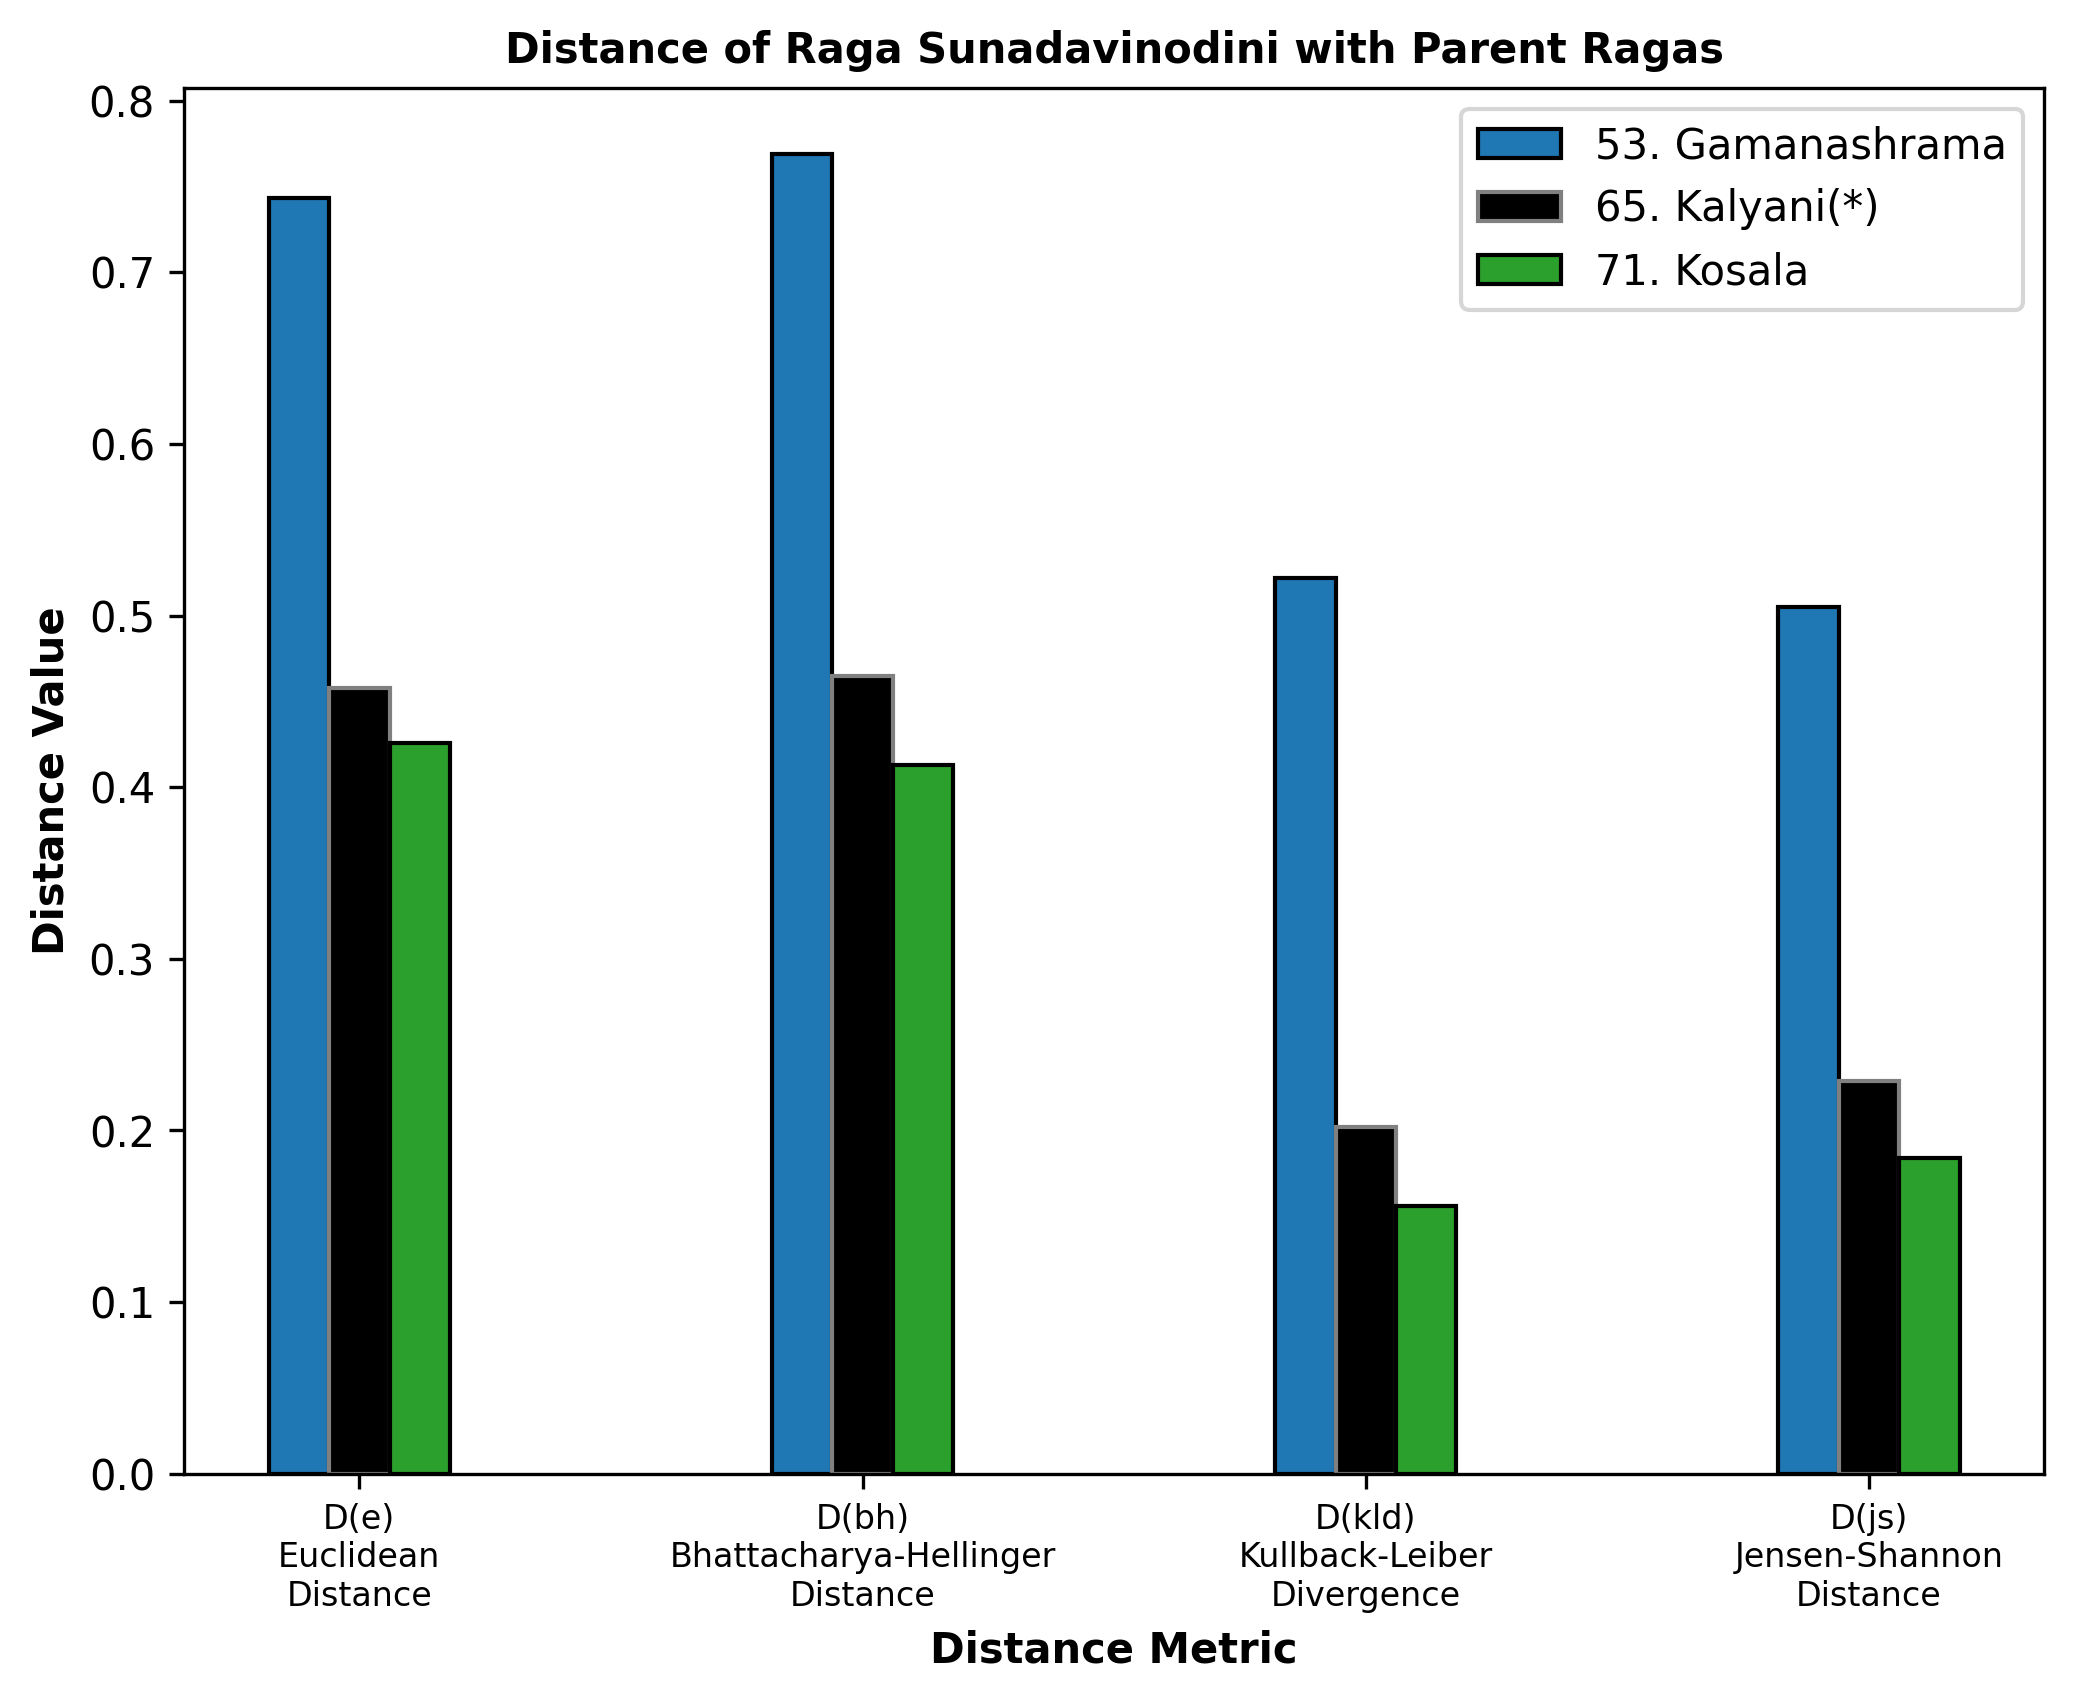
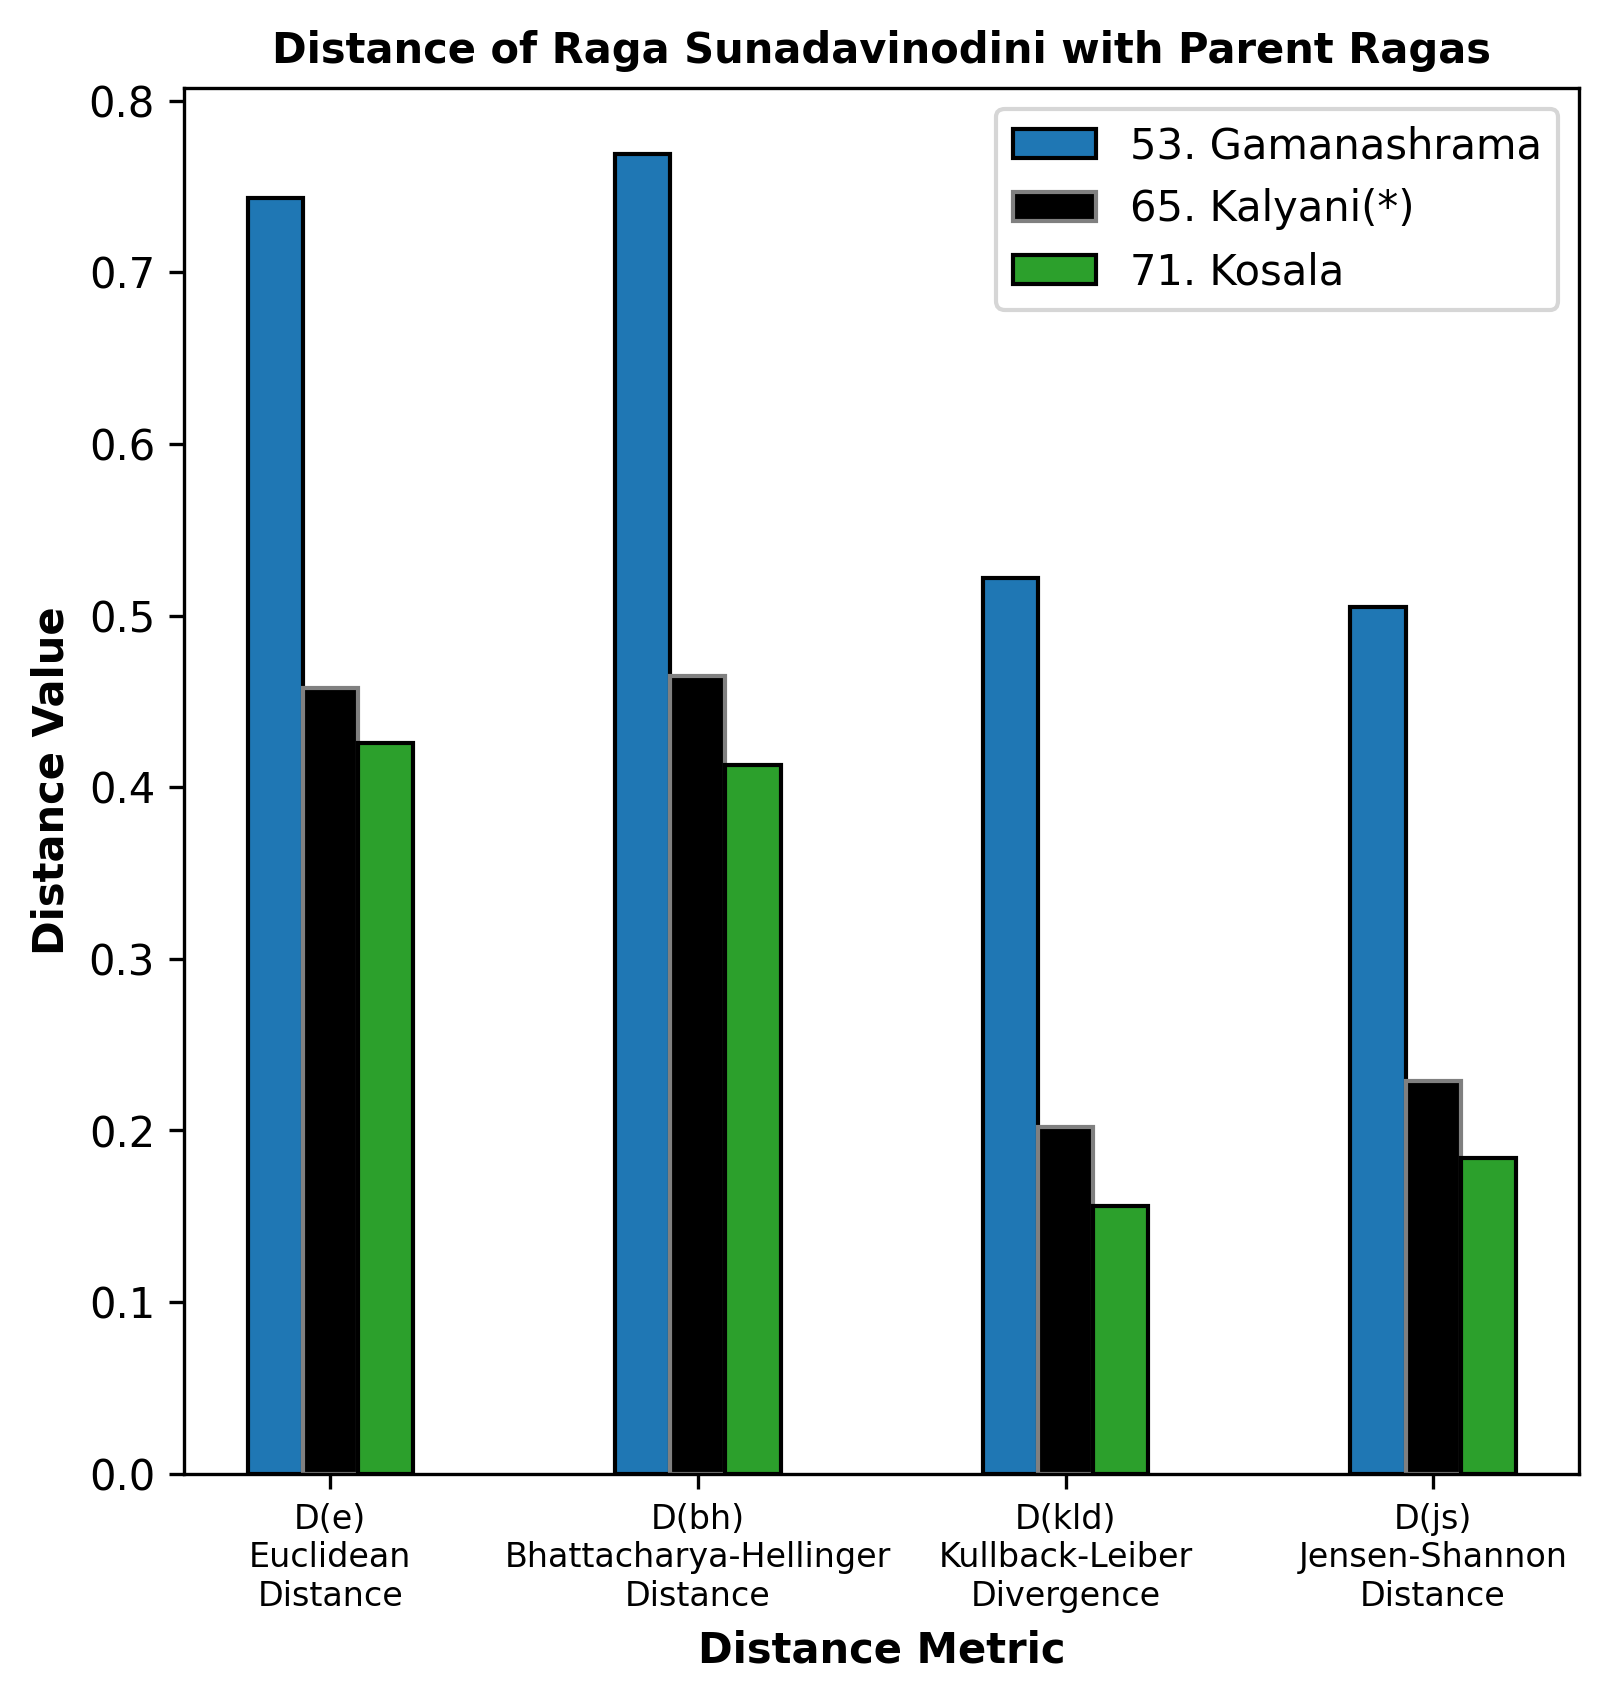
changes in plots. Width reduced.

diff --git a/plot_tables_v4.py b/plot_tables_v4.py
@@ -12,9 +12,9 @@ import matplotlib.colors as mcolors
 
 # ----------------------------------------------------------------
 
-filename = 'tables/Table5_Hindola.txt'
-Raga_name = "Hindola"
-parent_lab = "(*)"
+# filename = 'tables/Table5_Hindola.txt'
+# Raga_name = "Hindola"
+# parent_lab = "(*)"
 
 # filename = 'tables/Table5_Sunadavinodini.txt'
 # Raga_name = "Sunadavinodini"
@@ -32,9 +32,9 @@ parent_lab = "(*)"
 # Raga_name = "Revati"
 # parent_lab = "(*)"
 
-# filename = 'tables/Table6_Hamsadwani.txt'
-# Raga_name = "Hamsadwani"
-# parent_lab = "(*)"
+filename = 'tables/Table6_Hamsadwani.txt'
+Raga_name = "Hamsadwani"
+parent_lab = "(*)"
 
 # filename = 'tables/Table7_Gambhiranata.txt'
 # Raga_name = "Gambhiranata"
@@ -58,16 +58,16 @@ bbox_shift = None
 plot_hline = False
 
 # set width of bar
-barWidth = 0.15
+# barWidth = 0.15
 # barWidth = 0.12
-# barWidth = 0.10
+barWidth = 0.10
 # barWidth = 0.08
 # bbox_shift = [1, 1]
 
 # set height and width of figure
 height = 6
-width = 6
-# width = 8
+# width = 6
+width = 8
 # width = 12
 
 # ----------------------------------------------------------------
@@ -169,7 +169,7 @@ if __name__ == '__main__':
         ylim = None
         legend_size = 6
         legend_position = 'upper center'
-        bbox_shift = [0.52, 0.99]
+        bbox_shift = [0.21, 1.01]
         color_flag = False
         plot_hline = True
 
